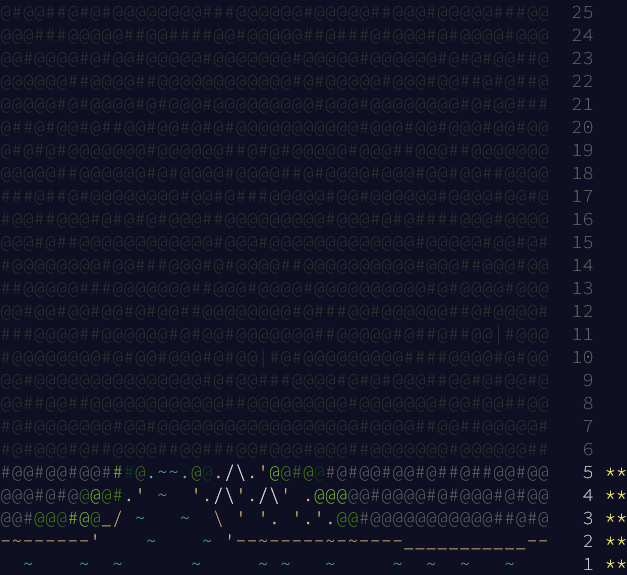
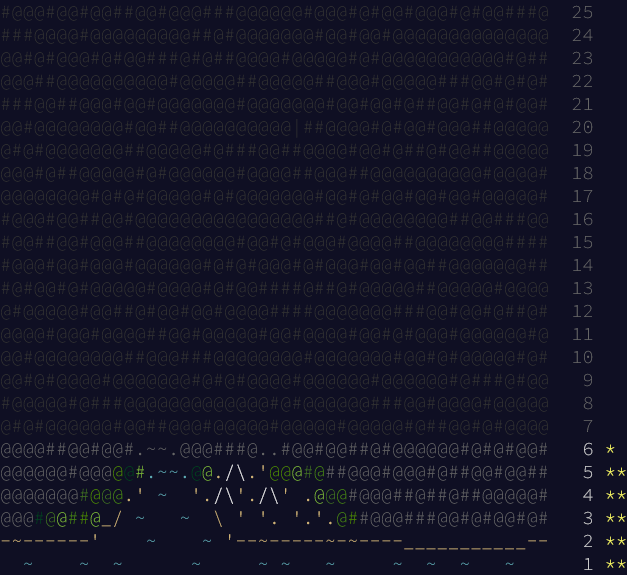
rust: "solve" 2022.06, part 1 w/ regex in text editor

diff --git a/2022/rust/src/aoc06.rs b/2022/rust/src/aoc06.rs
@@ -1,0 +1,90 @@
+use super::Day;
+
+pub struct Day06;
+
+impl<'a, I: Clone + Iterator<Item = &'a str>> Day<'a, I, i32> for Day06 {
+    fn part1(_input: I) -> Option<i32> {
+        // regex: (.)((?!\1).)((?!\1|\2).)((?!\1|\2|\3).)
+        todo!()
+    }
+
+    fn part2(_input: I) -> Option<i32> {
+        todo!()
+    }
+}
+
+#[cfg(test)]
+mod tests {
+    use super::{Day, Day06};
+    use std::str::Lines;
+
+    const INPUT: [&str; 5] = [
+        "mjqjpqmgbljsphdztnvjfqwrcgsmlb",
+        "bvwbjplbgvbhsrlpgdmjqwftvncz",
+        "nppdvjthqldpwncqszvftbrmjlhg",
+        "nznrnfrfntjfmvfwmzdfjlvtqnbhcprsg",
+        "zcfzfwzzqfrljwzlrfnpqdbhtmscgvjw",
+    ];
+
+    fn test_input(input: &str) -> Lines {
+        input.lines()
+    }
+
+    fn test_part1(input: &str) -> Option<i32> {
+        Day06::part1(test_input(input))
+    }
+
+    fn test_part2(input: &str) -> Option<i32> {
+        Day06::part2(test_input(input))
+    }
+
+    #[test]
+    fn test1a() {
+        assert_eq!(Some(7), test_part1(INPUT[0]));
+    }
+
+    #[test]
+    fn test1b() {
+        assert_eq!(Some(5), test_part1(INPUT[1]));
+    }
+
+    #[test]
+    fn test1c() {
+        assert_eq!(Some(6), test_part1(INPUT[2]));
+    }
+
+    #[test]
+    fn test1d() {
+        assert_eq!(Some(10), test_part1(INPUT[3]));
+    }
+
+    #[test]
+    fn test1e() {
+        assert_eq!(Some(11), test_part1(INPUT[4]));
+    }
+
+    #[test]
+    fn test2a() {
+        assert_eq!(None, test_part2(INPUT[0])); // todo replace expected value
+    }
+
+    #[test]
+    fn test2b() {
+        assert_eq!(None, test_part2(INPUT[1])); // todo replace expected value
+    }
+
+    #[test]
+    fn test2c() {
+        assert_eq!(None, test_part2(INPUT[2])); // todo replace expected value
+    }
+
+    #[test]
+    fn test2d() {
+        assert_eq!(None, test_part2(INPUT[3])); // todo replace expected value
+    }
+
+    #[test]
+    fn test2e() {
+        assert_eq!(None, test_part2(INPUT[4])); // todo replace expected value
+    }
+}

diff --git a/2022/rust/src/main.rs b/2022/rust/src/main.rs
@@ -7,14 +7,16 @@ use aoc02::Day02;
 use aoc03::Day03;
 use aoc04::Day04;
 use aoc05::Day05;
+use aoc06::Day06;
 
 mod aoc01;
 mod aoc02;
 mod aoc03;
 mod aoc04;
 mod aoc05;
+mod aoc06;
 
-const LATEST_DAY: u8 = 5;
+const LATEST_DAY: u8 = 6;
 
 trait Day<'a, I: Clone + Iterator<Item = &'a str>, T: Display> {
     fn part1(input: I) -> Option<T>;
@@ -44,6 +46,7 @@ fn main() -> Result<(), Error> {
         3 => Day03::solve(lines),
         4 => Day04::solve(lines),
         5 => Day05::solve(lines),
+        6 => Day06::solve(lines),
         _ => unreachable!(),
     }
 

diff --git a/2022/README.md b/2022/README.md
@@ -1,30 +1,30 @@
 # [2022](https://adventofcode.com/2022)
 ```
-@#@@##@#@#@@@@@@@@###@@@@@@#@@@@@##@@@#@@@@@###@@  25
-@@@###@@@@@##@@####@@#@@@@@##@###@#@@@#@#@@@@#@@@  24
-@@#@@@@#@#@@#@@@@@#@@@@@@@#@@@@@#@@@@@@#@#@#@@##@  23
-@@@@@@##@@@@##@@@@@@@@@@@@#@#@@@@@#@@@#@@##@#@##@  22
-@@@@@#@#@@@@#@#@@@#@@@@@@@@@#@@@#@@@@@@@@#@#@@###  21
-@##@#@@#@##@@#@@#@#@#@@@@@@@@@@@#@@@#@@#@@@#@@#@@  20
-@#@#@#@@@@@@@#@@@@@@##@#@#@@@@@#@@@##@@@##@@@@@@@  19
-@@@@@##@@@@@@#@#@@@@#@@@@##@#@@@@#@@@#@@#@@##@@@@  18
-###@##@#@@@@@@@@#@@#@###@@@@@#@@#@@@@@@#@@@@#@@#@  17
-#@@##@@@#@#@#@#@@@##@@@@@@@@@#@@@#@#@####@@@#@@@@  16
-@@@#@##@@@@@@@@@@@@#@@@#@@@@@@@@@@@@@#@@@@@#@@#@#  15
-#@@@@@@@@#@@###@@@#@#@@@@##@@@@@@@@@@#@@@##@@@#@@  14
-##@@@@@###@@@@@@@##@@@#@@@@#@@@@@@@@@@#@#@@@@#@@@  13
-@@#@@#@@#@@#@#@@##@@@@@@@@#@###@@#@@@@@@##@#@@@@#  12
-###@@@@##@@@@@@#@#@@#@@@@@@@##@@@@@#@##@##@@|#@@@  11
-#@@@@@@@@#@#@@#@@@#@#@@|#@#@@@@@@@@@####@@@@#@#@@  10
-@@#@@@@@@@@@@@@@@@#@#@@###@@@@#@#@#@@@##@@#@#@@#@   9
-@@##@@##@@@@@@@@@@@@##@@@@@@@@@#@@@@@@@#@@#@@##@@   8
-#@#@@@@@@@#@@#@@@@@@@@@@@@@@@@@@#@@@@##@@##@@@@@#   7
-#@#@@@#@##@@@@##@@###@@#@@@#@@@##@@@@@@@#@@@@@@##   6
-#@@#@@#@@###@.~~.@@./\.'@@#@@#@#@@#@@#@##@##@@#@@   5 **
-@@@#@#@@@@#.' ~  './\'./\' .@@@@@#@@@@#@#@@@#@#@@   4 **
-@@#@@@#@@_/ ~   ~  \ ' '. '.'.@@#@@@@@@@@@@@##@#@   3 **
+#@@@#@@#@@##@@#@@@###@@@@@@#@@@#@#@@#@@@#@#@@###@  25
+###@@@@#@@@@@@@@@##@#@@@@@@@#@@#@@#@@@@@@@@@@@@@@  24
+@@#@#@@@#@#@@###@#@##@@@@#@@@@@#@#@@@@@@@@@@@#@##  23
+@@@##@@@@@@@@@@#@@@@@##@@@@@##@@@#@@@@@###@@#@#@#  22
+###@@##@@@#@@#@@@@@@@#@@@@@@@#@@#@@#@##@@#@#@#@@#  21
+@@#@@@@@@@@#@@##@@@@@@@@@@|##@@@@#@#@@#@@@##@@@@@  20
+@#@#@@@@@@@##@@@@@#@###@@##@@@@#@@#@##@#@@##@@@@@  19
+@@@#@##@@@@@#@#@@@@@@#@@@@##@@@##@@@@@@@@@@#@@@@#  18
+@@@@@@@@#@#@#@@@@@#@#@@@@@@@#@@#@#@@#@@#@@#@@@@@#  17
+#@@@#@@##@@#@@@@@@@@@@@@@@@@##@#@@@@@@@@##@@###@@  16
+#@@##@@#@@@##@@@@@@@@#@@#@#@@@#@@@@##@@@@@@@@####  15
+#@@@#@@#@@@#@@@@@@#@#@#@@@#@#@@@#@@#@@##@@@@@@@##  14
+#@#@@#@#@@@@@#@@@@#@#@@####@##@#@@@@@##@@@@@#@@@@  13
+@#@@@@@#@@##@#@@#@@#@@@@####@@@@@@@###@@#@@#@##@#  12
+@@@@#@@@#@@@@##@@#@@@@@#@@#@@@@#@@#@#@@@#@@@@@@#@  11
+@@#@@@@@@@@##@@@###@@@@@@@@#@@@@@@@#@@#@#@@@@@#@#  10
+@@#@#@@@@#@@@@@@@#@#@#@@@@#@@@@@@#@@@@@@#@###@#@@   9
+#@@@@@#@###@@@@@@@@@@@@@#@#@@@@@@###@@#@@@@#@@@@@   8
+@#@#@@@@@@#@@##@@@#@@@@@#@@@@@#@@@@@#@##@@#@#@@@@   7
+@@@@##@@#@@#.~~.@@@###@..#@@#@@##@#@@@@@@#@#@#@@#   6 *
+@@@@@@#@@@@@#.~~.@@./\.'@@@#@##@@@#@@@#@##@@#@@##   5 **
+@@@@@@@#@@@.' ~  './\'./\' .@@@#@@@##@##@##@@@@@#   4 **
+@@@#@@##@_/ ~   ~  \ ' '. '.'.@##@@@###@@#@#@@#@#   3 **
 -~------'    ~    ~ '--~-----~-~----___________--   2 **
   ~    ~  ~      ~     ~ ~   ~     ~  ~  ~   ~      1 **
 ```
 
-![Calendar after day 5](calendar.png)
+![Calendar after day 6, part 1](calendar.png)
